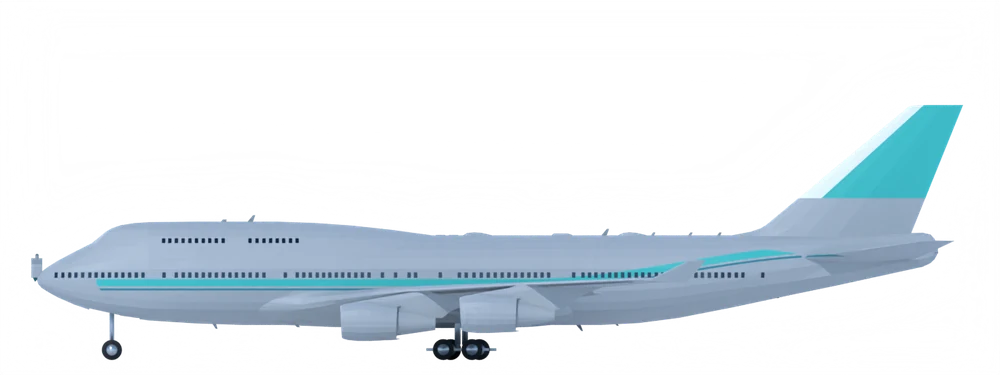
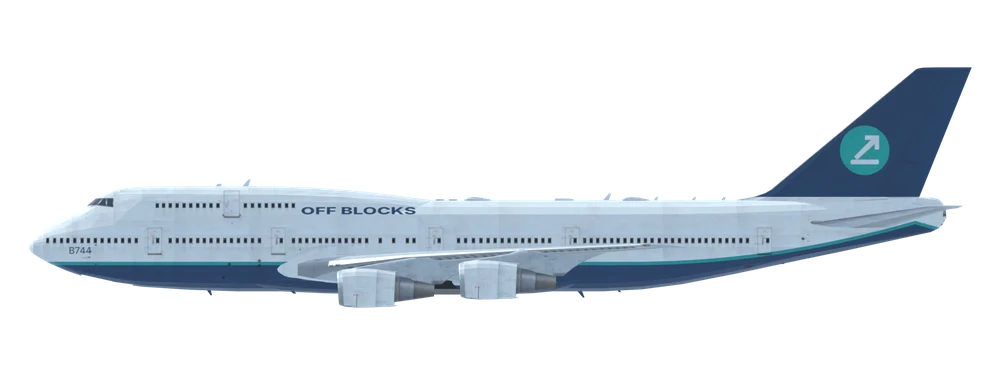
Off Blocks livery: 747-400, A380, Twin Otter, MAX7/10, ATR42
Claude-Session: https://claude.ai/code/session_01XrFePU9h1hCzy7p7tSHsYD

Changed region(s): [[0.031, 0.176, 0.992, 0.968]]

diff --git a/sw.js b/sw.js
@@ -1,5 +1,5 @@
 /* Off Blocks service worker. Bump VER to push an update to installed copies. */
-const VER='ob-v52',CORE=["./", "index.html", "manifest.webmanifest", "network.json", "icons/icon-192.png", "icons/icon-512.png", "mapimg/detail.json", "mapimg/sat.webp", "mapimg/terrain.webp", "img/A19N.webp", "img/A19N_side.webp", "img/A20N.webp", "img/A20N_side.webp", "img/A21N.webp", "img/A21N_side.webp", "img/A21X.webp", "img/A21X_side.webp", "img/A306_side.webp", "img/A310.webp", "img/A310_side.webp", "img/A318.webp", "img/A318_side.webp", "img/A319.webp", "img/A319_side.webp", "img/A320.webp", "img/A320_side.webp", "img/A321.webp", "img/A321_side.webp", "img/A332_side.webp", "img/A333_side.webp", "img/A338.webp", "img/A338_side.webp", "img/A339.webp", "img/A339_side.webp", "img/A343_side.webp", "img/A346_side.webp", "img/A359_side.webp", "img/A35K.webp", "img/A35K_side.webp", "img/A388_side.webp", "img/AN24.webp", "img/AR21.webp", "img/AT42_side.webp", "img/AT76_side.webp", "img/B190.webp", "img/B37M.webp", "img/B37M_side.webp", "img/B38M.webp", "img/B38M_side.webp", "img/B39M.webp", "img/B39M_side.webp", "img/B3XM.webp", "img/B3XM_side.webp", "img/B712.webp", "img/B712_side.webp", "img/B722_side.webp", "img/B732.webp", "img/B732_side.webp", "img/B733_side.webp", "img/B734_side.webp", "img/B735.webp", "img/B735_side.webp", "img/B736_side.webp", "img/B737_side.webp", "img/B738_side.webp", "img/B739_side.webp", "img/B744_side.webp", "img/B748_side.webp", "img/B752.webp", "img/B752_side.webp", "img/B753.webp", "img/B753_side.webp", "img/B762.webp", "img/B762_side.webp", "img/B763_side.webp", "img/B764.webp", "img/B764_side.webp", "img/B772_side.webp", "img/B773.webp", "img/B773_side.webp", "img/B779.webp", "img/B779_side.webp", "img/B77L_side.webp", "img/B77W_side.webp", "img/B788_side.webp", "img/B789_side.webp", "img/B78X_side.webp", "img/BCS1_side.webp", "img/BCS3_side.webp", "img/C208.webp", "img/C208_side.webp", "img/C919.webp", "img/C919_side.webp", "img/CRJ2.webp", "img/CRJ2_side.webp", "img/CRJ7_side.webp", "img/CRJ9.webp", "img/CRJ9_side.webp", "img/CRJX_side.webp", "img/D328.webp", "img/DH8A.webp", "img/DH8A_side.webp", "img/DH8C_side.webp", "img/DH8D_side.webp", "img/DHC6_side.webp", "img/E120.webp", "img/E120_side.webp", "img/E135.webp", "img/E135_side.webp", "img/E140.webp", "img/E140_side.webp", "img/E145.webp", "img/E145_side.webp", "img/E170_side.webp", "img/E175_side.webp", "img/E190_side.webp", "img/E195.webp", "img/E195_side.webp", "img/E290_side.webp", "img/E295.webp", "img/E295_side.webp", "img/E75X.webp", "img/E75X_side.webp", "img/F100.webp", "img/F100_side.webp", "img/F50.webp", "img/F50_side.webp", "img/F70.webp", "img/F70_side.webp", "img/J41.webp", "img/L410.webp", "img/L410_side.webp", "img/MA60.webp", "img/MD83.webp", "img/MD83_side.webp", "img/MD90.webp", "img/MD90_side.webp", "img/RJ1H.webp", "img/RJ1H_side.webp", "img/RJ85.webp", "img/RJ85_side.webp", "img/SB20.webp", "img/SF34_side.webp", "img/T154.webp", "img/T154_side.webp"];
+const VER='ob-v53',CORE=["./", "index.html", "manifest.webmanifest", "network.json", "icons/icon-192.png", "icons/icon-512.png", "mapimg/detail.json", "mapimg/sat.webp", "mapimg/terrain.webp", "img/A19N.webp", "img/A19N_side.webp", "img/A20N.webp", "img/A20N_side.webp", "img/A21N.webp", "img/A21N_side.webp", "img/A21X.webp", "img/A21X_side.webp", "img/A306_side.webp", "img/A310.webp", "img/A310_side.webp", "img/A318.webp", "img/A318_side.webp", "img/A319.webp", "img/A319_side.webp", "img/A320.webp", "img/A320_side.webp", "img/A321.webp", "img/A321_side.webp", "img/A332_side.webp", "img/A333_side.webp", "img/A338.webp", "img/A338_side.webp", "img/A339.webp", "img/A339_side.webp", "img/A343_side.webp", "img/A346_side.webp", "img/A359_side.webp", "img/A35K.webp", "img/A35K_side.webp", "img/A388_side.webp", "img/AN24.webp", "img/AR21.webp", "img/AT42_side.webp", "img/AT76_side.webp", "img/B190.webp", "img/B37M.webp", "img/B37M_side.webp", "img/B38M.webp", "img/B38M_side.webp", "img/B39M.webp", "img/B39M_side.webp", "img/B3XM.webp", "img/B3XM_side.webp", "img/B712.webp", "img/B712_side.webp", "img/B722_side.webp", "img/B732.webp", "img/B732_side.webp", "img/B733_side.webp", "img/B734_side.webp", "img/B735.webp", "img/B735_side.webp", "img/B736_side.webp", "img/B737_side.webp", "img/B738_side.webp", "img/B739_side.webp", "img/B744_side.webp", "img/B748_side.webp", "img/B752.webp", "img/B752_side.webp", "img/B753.webp", "img/B753_side.webp", "img/B762.webp", "img/B762_side.webp", "img/B763_side.webp", "img/B764.webp", "img/B764_side.webp", "img/B772_side.webp", "img/B773.webp", "img/B773_side.webp", "img/B779.webp", "img/B779_side.webp", "img/B77L_side.webp", "img/B77W_side.webp", "img/B788_side.webp", "img/B789_side.webp", "img/B78X_side.webp", "img/BCS1_side.webp", "img/BCS3_side.webp", "img/C208.webp", "img/C208_side.webp", "img/C919.webp", "img/C919_side.webp", "img/CRJ2.webp", "img/CRJ2_side.webp", "img/CRJ7_side.webp", "img/CRJ9.webp", "img/CRJ9_side.webp", "img/CRJX_side.webp", "img/D328.webp", "img/DH8A.webp", "img/DH8A_side.webp", "img/DH8C_side.webp", "img/DH8D_side.webp", "img/DHC6_side.webp", "img/E120.webp", "img/E120_side.webp", "img/E135.webp", "img/E135_side.webp", "img/E140.webp", "img/E140_side.webp", "img/E145.webp", "img/E145_side.webp", "img/E170_side.webp", "img/E175_side.webp", "img/E190_side.webp", "img/E195.webp", "img/E195_side.webp", "img/E290_side.webp", "img/E295.webp", "img/E295_side.webp", "img/E75X.webp", "img/E75X_side.webp", "img/F100.webp", "img/F100_side.webp", "img/F50.webp", "img/F50_side.webp", "img/F70.webp", "img/F70_side.webp", "img/J41.webp", "img/L410.webp", "img/L410_side.webp", "img/MA60.webp", "img/MD83.webp", "img/MD83_side.webp", "img/MD90.webp", "img/MD90_side.webp", "img/RJ1H.webp", "img/RJ1H_side.webp", "img/RJ85.webp", "img/RJ85_side.webp", "img/SB20.webp", "img/SF34_side.webp", "img/T154.webp", "img/T154_side.webp"];
 self.addEventListener('install',e=>{e.waitUntil(caches.open(VER).then(c=>Promise.all(CORE.map(u=>c.add(u).catch(()=>0)))).then(()=>self.skipWaiting()))});
 self.addEventListener('activate',e=>{e.waitUntil(caches.keys().then(k=>Promise.all(k.filter(x=>x!==VER).map(x=>caches.delete(x)))).then(()=>self.clients.claim()))});
 self.addEventListener('fetch',e=>{const r=e.request,u=new URL(r.url);if(r.method!=='GET'||u.origin!==location.origin)return;

diff --git a/index.html b/index.html
@@ -180,7 +180,7 @@ const lvBase=src=>new Promise(res=>{if(LVI.base[src])return res(LVI.base[src]);c
 const PHOTOS_OFF={B39M:{src:'img/B39M_photo.webp',by:'Clemens Vasters',lic:'CC BY 2.0',lu:'https://creativecommons.org/licenses/by/2.0/',url:'https://commons.wikimedia.org/wiki/File:N7379E_-_Boeing_737_MAX_9.jpg',n:'Boeing 737 MAX 9'}};
 const PHOTOS={};
 /* types with a finished Off Blocks livery render: shown as-is, no repaint */
-const LVNAT={B38M:1,B39M:1,A318:1,A319:1,A320:1,A321:1,A19N:1,A20N:1,A21N:1,A21X:1,A332:1,A333:1,A338:1,A339:1,A343:1,A346:1,A359:1,A35K:1,B772:1,B773:1,B77L:1,B77W:1,B777:1,B779:1,B788:1,B789:1,B78X:1,B787:1,B752:1,B753:1,B762:1,B763:1,B764:1,E170:1,E175:1,E75L:1,E75X:1,E190:1,E195:1,E290:1,E295:1,CRJ7:1,CRJ2:1,CRJ9:1,CRJX:1,BCS1:1,BCS3:1,AT76:1,AT72:1,AT75:1,AT73:1,DH8D:1,DH8C:1,DH8B:1,DH8A:1,SF34:1,AT43:1,AT44:1,AT45:1,AT46:1,B737:1,B738:1,B739:1,A306:1,B748:1};
+const LVNAT={B38M:1,B39M:1,A318:1,A319:1,A320:1,A321:1,A19N:1,A20N:1,A21N:1,A21X:1,A332:1,A333:1,A338:1,A339:1,A343:1,A346:1,A359:1,A35K:1,B772:1,B773:1,B77L:1,B77W:1,B777:1,B779:1,B788:1,B789:1,B78X:1,B787:1,B752:1,B753:1,B762:1,B763:1,B764:1,E170:1,E175:1,E75L:1,E75X:1,E190:1,E195:1,E290:1,E295:1,CRJ7:1,CRJ2:1,CRJ9:1,CRJX:1,BCS1:1,BCS3:1,AT76:1,AT72:1,AT75:1,AT73:1,DH8D:1,DH8C:1,DH8B:1,DH8A:1,SF34:1,AT43:1,AT44:1,AT45:1,AT46:1,B737:1,B738:1,B739:1,A306:1,B748:1,B744:1,A388:1,DHC6:1,B37M:1,B3XM:1,AT42:1};
 const lvSrc=(c,v,l)=>LVI.cache[lvKey(c,v,l)]||'img/'+c+(v==='s'?'_side':'')+'.webp';
 /* natural white: the renders come out blue-grey, so lift and neutralise every light, low-saturation pixel (windows, gear and dark detail are left alone) */
 function lvRefL(d,A){const a=[];for(let i=0;i<A.length;i+=7){if(!A[i])continue;const j=i*4,r=d[j],g=d[j+1],b=d[j+2],mx=Math.max(r,g,b),lu=.3*r+.59*g+.11*b;if(lu>110&&(mx-Math.min(r,g,b))/(mx||1)<.36)a.push(lu)}if(!a.length)return 190;a.sort((p,q)=>p-q);return a[a.length>>1]}
